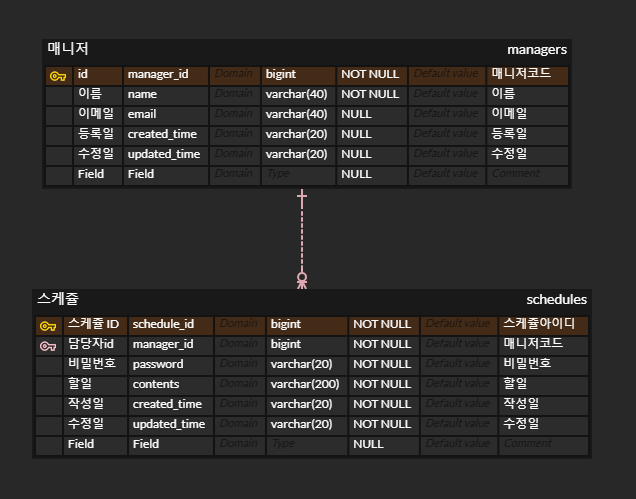
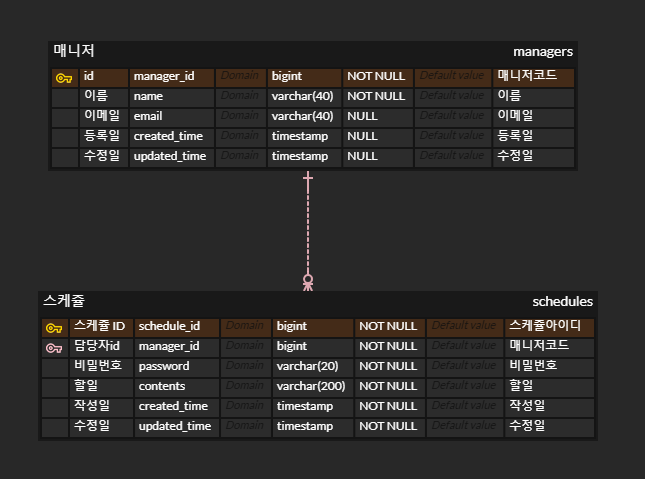
chore update README.md

Changed region(s): [[0.0597, 0.0877, 0.9261, 0.9061]]

diff --git a/README.md b/README.md
@@ -24,32 +24,42 @@
 ```mysql
 CREATE TABLE `schedules`
 (
-    `schedule_id`  bigint       NOT NULL COMMENT '스케쥴아이디',
-    `manager_id`   bigint       NOT NULL COMMENT '매니저코드',
-    `password`     varchar(20)  NOT NULL COMMENT '비밀번호',
-    `contents`     varchar(200) NOT NULL COMMENT '할일',
-    `created_time` varchar(20)  NOT NULL COMMENT '작성일',
-    `updated_time` varchar(20)  NOT NULL COMMENT '수정일'
+   `schedule_id`  bigint       NOT NULL COMMENT '스케쥴아이디',
+   `manager_id`   bigint       NOT NULL COMMENT '매니저코드',
+   `password`     varchar(20)  NOT NULL COMMENT '비밀번호',
+   `contents`     varchar(200) NOT NULL COMMENT '할일',
+   `created_time` timestamp  NULL COMMENT '작성일',
+   `updated_time` timestamp  NULL COMMENT '수정일'
 );
 
 CREATE TABLE `managers`
 (
-    `manager_id`   bigint       NOT NULL COMMENT '매니저코드',
-    `name`         varchar(40)  NOT NULL COMMENT '이름',
-    `email`        varchar(40)  NULL COMMENT '이메일',
-    `created_time` varchar(20)  NULL COMMENT '등록일',
-    `updated_time` varchar(20)  NULL COMMENT '수정일'
+   `manager_id`   bigint       NOT NULL COMMENT '매니저코드',
+   `name`         varchar(40)  NOT NULL COMMENT '이름',
+   `email`        varchar(40)  NULL COMMENT '이메일',
+   `created_time` timestamp  NULL COMMENT '등록일',
+   `updated_time` timestamp  NULL COMMENT '수정일'
 );
 
-ALTER TABLE `schedules` ADD CONSTRAINT `PK_SCHEDULES` PRIMARY KEY (`schedule_id`);
+ALTER TABLE `schedules`
+   ADD CONSTRAINT `PK_SCHEDULES` PRIMARY KEY (
+                                              `schedule_id`
+      );
 
-ALTER TABLE `managers` ADD CONSTRAINT `PK_MANAGERS` PRIMARY KEY (`manager_id`);
+ALTER TABLE `managers`
+   ADD CONSTRAINT `PK_MANAGERS` PRIMARY KEY (
+                                             `manager_id`
+      );
 
-ALTER TABLE managers MODIFY manager_id bigint not null auto_increment;
-ALTER TABLE schedules MODIFY schedule_id bigint not null auto_increment;
+ALTER TABLE managers
+   MODIFY manager_id bigint not null auto_increment;
+ALTER TABLE schedules
+   MODIFY schedule_id bigint not null auto_increment;
 
-ALTER TABLE schedules add constraint schedule_fk_manager_id foreign key (manager_id) references managers (manager_id) on delete cascade
+ALTER TABLE schedules
+   add constraint schedule_fk_manager_id foreign key (manager_id) references managers (manager_id) on delete cascade
 ```
+
 ## 구현 리스트
 -[X] 일정 작성
 -[X] 선택한 일정 조회
